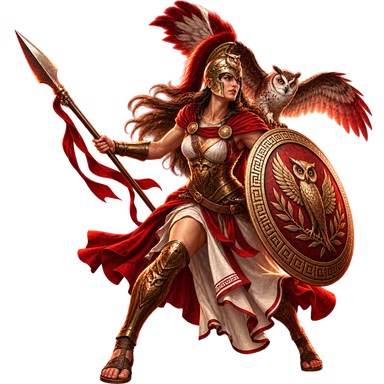
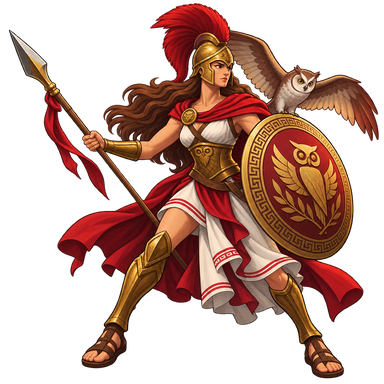
feat: cambio de estética a estética más plana y de juego

diff --git a/src/main.tsx b/src/main.tsx
@@ -1,9 +1,9 @@
 import React, { useEffect, useRef, useState } from 'react';
 import { createRoot } from 'react-dom/client';
 import './style.css';
-import boardImage from './assets/boards/zeus-thor-board.png';
-import player1Image from './assets/players/player1.png';
-import player2Image from './assets/players/player2.png';
+import boardImage from './assets/boards/board.png';
+import player1Image from './assets/players/hoplita.png';
+import player2Image from './assets/players/ulfsark.png';
 
 import athenaImage from './assets/players/athena.png';
 import minotaurImage from './assets/players/minotaur.png';
@@ -213,7 +213,7 @@ const THOR_WARRIORS: Warrior[] = [
   {
     id: 'loki',
     name: 'LOKI',
-    title: 'GOD OF MESSAGING',
+    title: 'GOD OF MESSAGING AND TRICKERY',
     description: 'Trickster god associated with chaos, cunning, and magic. Loki is known for his shape-shifting abilities and his complex relationship with the other gods.',
     unlockAt: 7,
     image: lokiImage,
